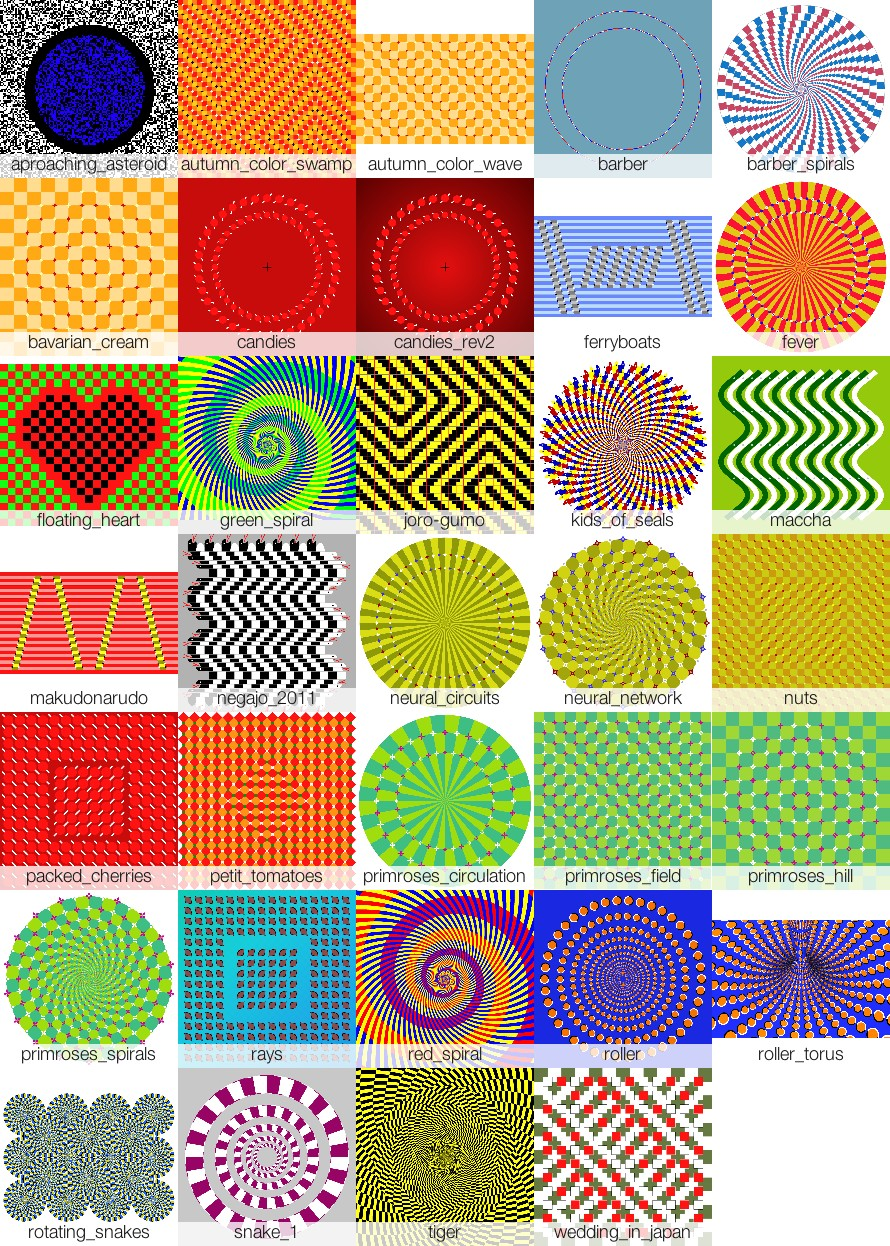
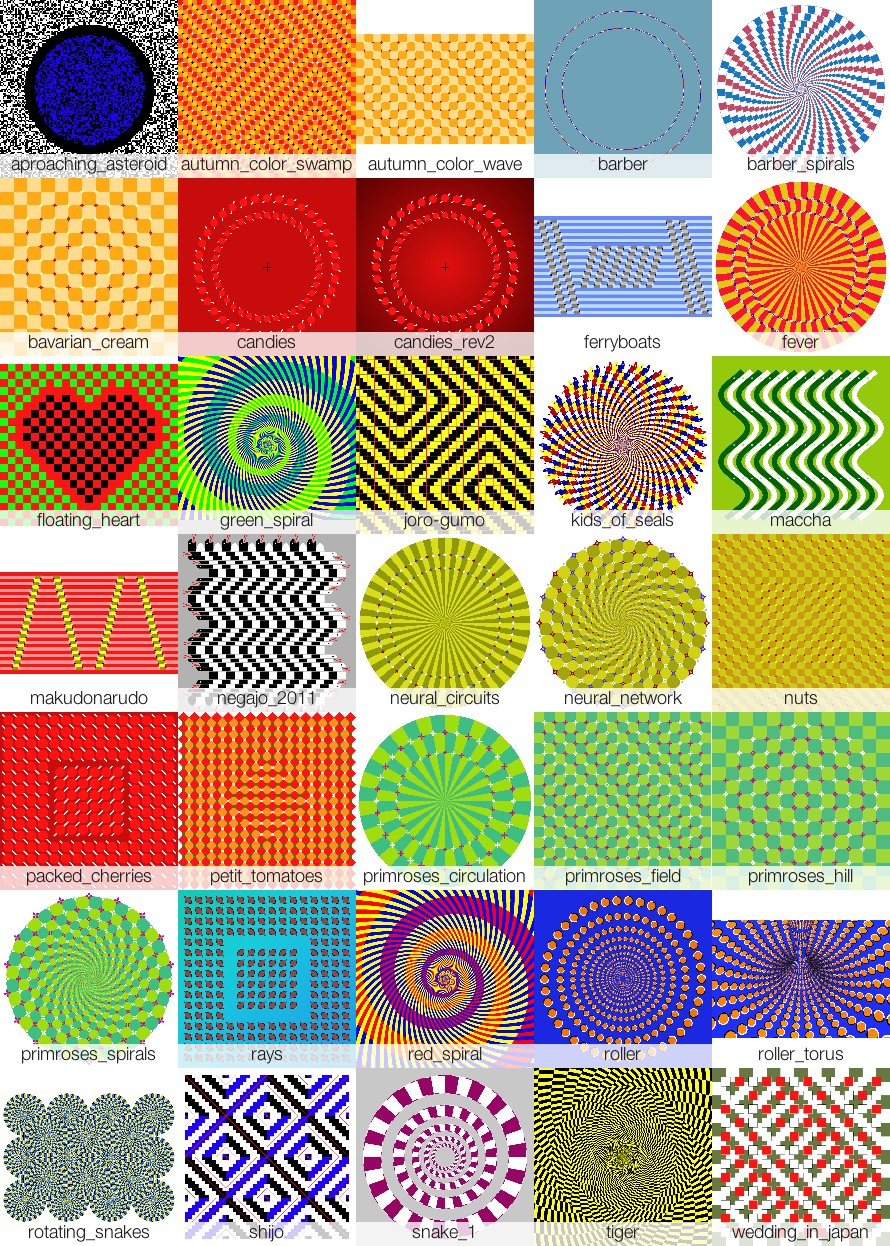
Added Shijo.

Changed region(s): [[0.182, 0.8539, 1.0, 1.0]]

diff --git a/README.md b/README.md
@@ -4,9 +4,9 @@ http://www.ritsumei.ac.jp/~akitaoka/index-e.html
 
 https://twitter.com/AkiyoshiKitaoka/
 
-These are reconstructions based on images published by Professor Kitaoka in his books and on his website.
+These are reconstructions based on images published by Professor Kitaoka in his books and on his website. The goal is to eventually reconstruct most of the full-page illustrations from the 2002 book "Trick Eyes" as well as a number of notable images from Kitaoka's website.
 
-All of them are programmed in the Python dialect of Processing.
+All of these images are programmed in the Python dialect of Processing.
 
 ![Kitaoka Illusions](https://github.com/jbum/kitaoka_illusions/blob/master/output/montage.jpg "Kitaoka Illusions")
 
